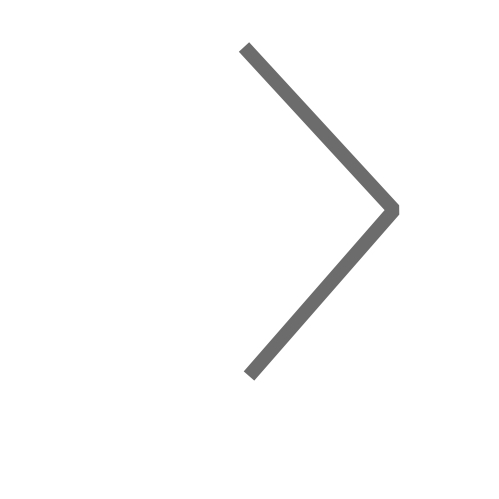
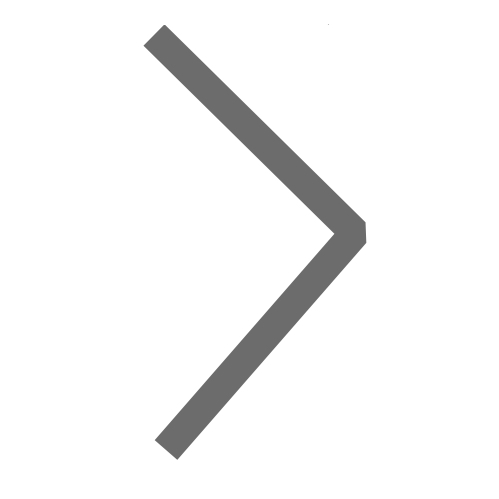
saving arrows

Changed region(s): [[0.2705, 0.0601, 0.8116, 0.9319]]

diff --git a/TBWeb/src/app/new-slider/new-slider.component.css b/TBWeb/src/app/new-slider/new-slider.component.css
@@ -1,7 +1,6 @@
 .card{
     overflow-y: hidden;
     text-align: center;
-    margin: auto;
     margin-top: 70px;
     margin-bottom: 50px;
     width: 750px;
@@ -13,6 +12,7 @@
     animation-fill-mode: forwards ;
     box-shadow: 0 4px 8px 0 rgba(4, 4, 4, 0.856), 0 6px 20px 0 rgb(0, 0, 0);
     /* box-shadow:0 6px 20px 0 rgba(0, 0, 0, 0.595); */
+
 }
 
 @keyframes fade-out{
@@ -25,11 +25,25 @@
     padding: 10px;
     text-align: center;
     width: 600px;
-
     margin: auto;
 }
 
 .holder{
     display: flex;  
     align-items: center;
+
+}
+
+.rightArrow{
+    width: 150px;
+    height: 150px;
+    cursor: pointer;
+
+
+}
+.leftArrow{
+    width: 150px;
+    height: 150px;
+    cursor: pointer;
+    
 }

diff --git a/TBWeb/src/app/new-slider/new-slider.component.html b/TBWeb/src/app/new-slider/new-slider.component.html
@@ -1,20 +1,15 @@
 <div class="holder">
-<div class="leftButton" (click)="moveLeft()"> <img class="leftArrow" src="assets/left-arrow.jpg"></div>
+<div class="leftButton" (click)="moveLeft()"> <img class="leftArrow" src="assets/Left-Arrow.png"></div>
 
 
 <div class="card">
-
-    
     <div class="textHolder">
         <img class="houseIMG" src={{picPath}}>
         <p class="intro">{{title}}</p>
         <p class="introBody">Description</p>
     </div>
-
-    
-
-    
 </div>
 
-<div class="rightButton" (click)="moveRight()"> <img class="rightArrow" src="assets/Right-Arrow.jpg"></div>
+<div class="rightButton" (click)="moveRight()"> <img class="rightArrow" src="assets/right-arrow.png"></div>
+
 </div>

diff --git a/TBWeb/src/app/home/home.component.css b/TBWeb/src/app/home/home.component.css
@@ -61,3 +61,9 @@ body{
     width: 350px;
     line-height: 25px;
 }
+
+.slider{
+    display: flex;
+    justify-content: center;
+    align-items: center;
+}

diff --git a/TBWeb/src/app/home/home.component.html b/TBWeb/src/app/home/home.component.html
@@ -17,6 +17,8 @@
     
 </div>
 <!-- <app-slider></app-slider> -->
+ <div class="slider">
 <app-new-slider></app-new-slider>
+</div>
 
 </body>
